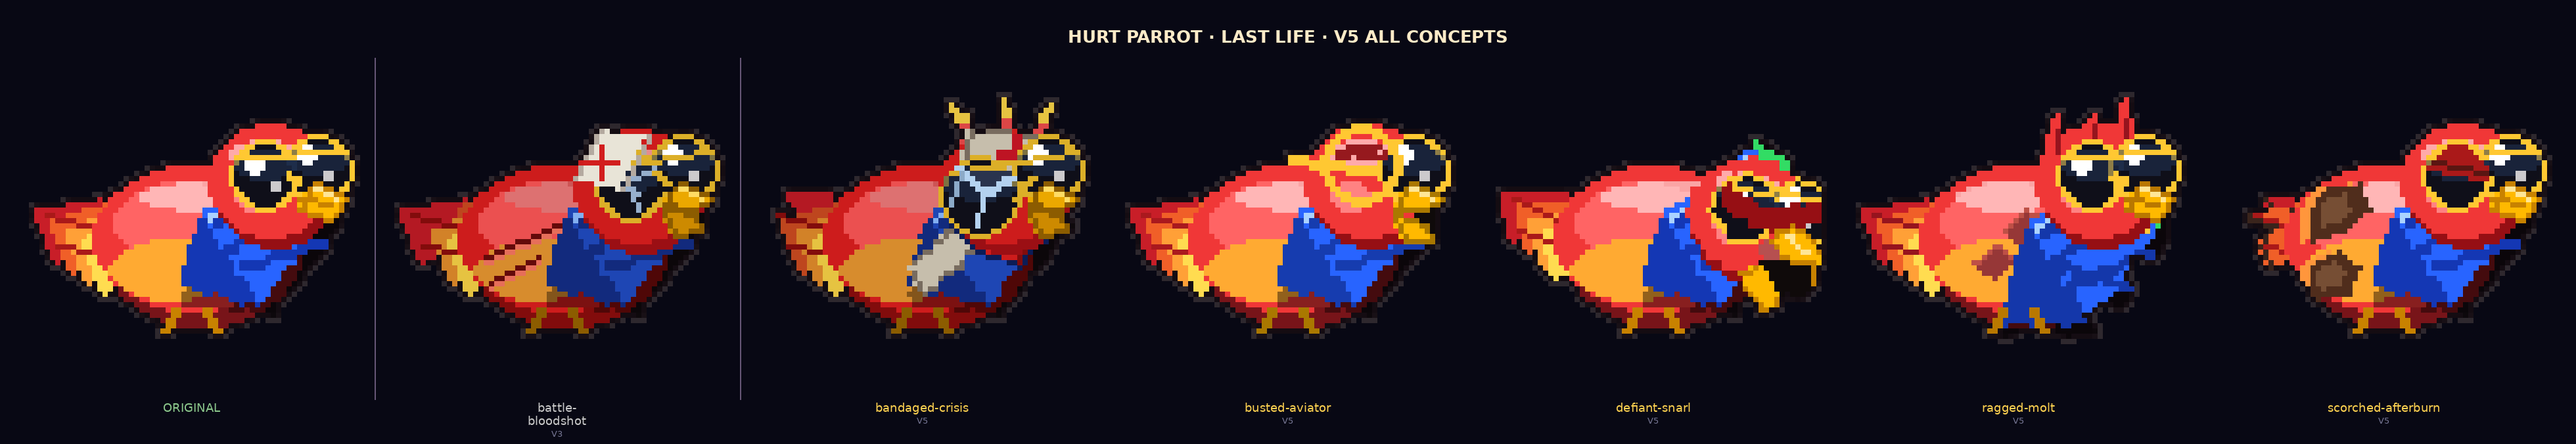
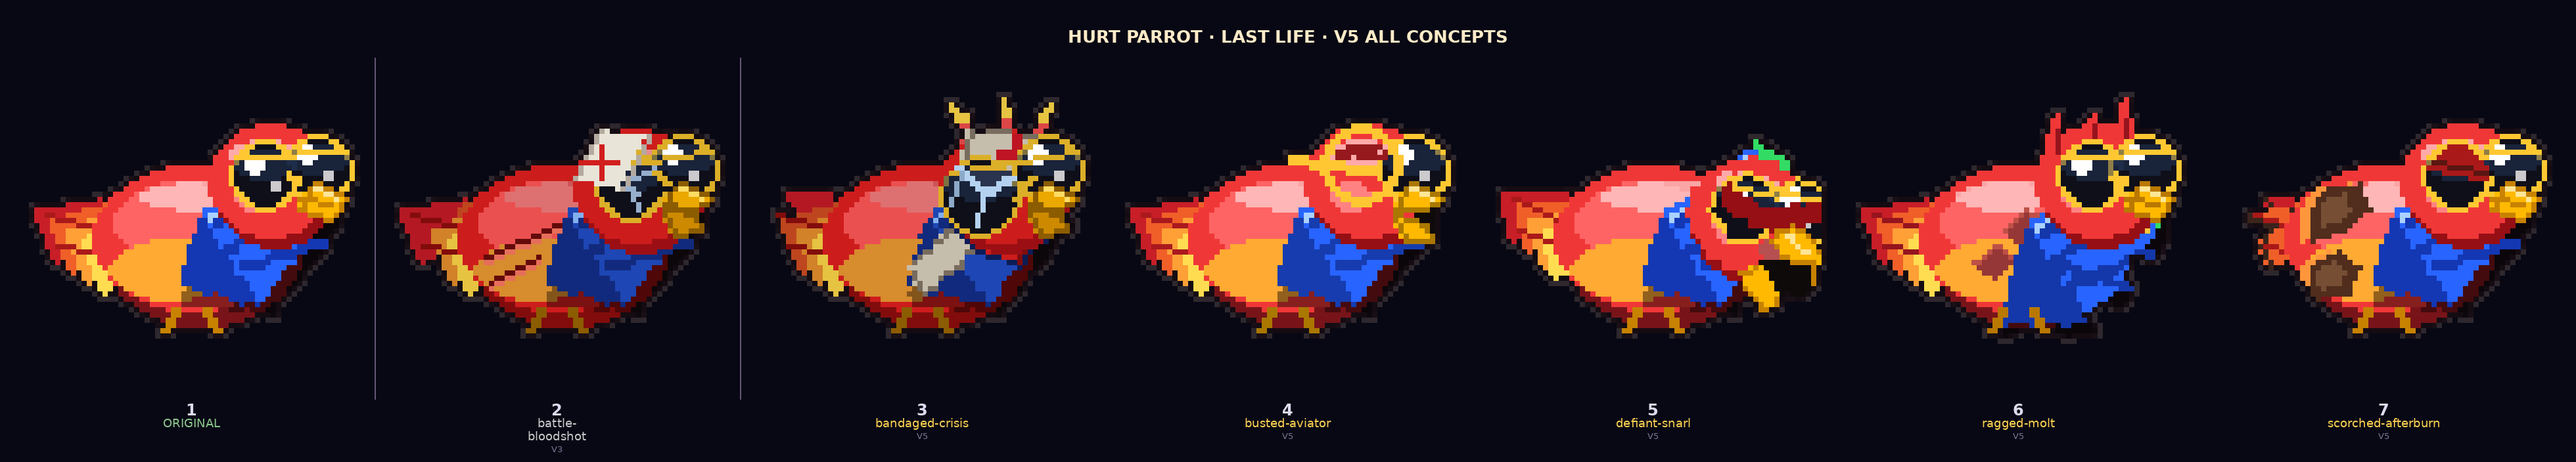
showcase: add numeric ID labels (1–7) below each panel sprite
Each panel now shows its 1-based index in bold below the sprite and
above the slug name, so concepts can be referenced by number.
FTR_H bumped 52→80 to accommodate the extra label row.

Claude-Session: https://claude.ai/code/session_01SYxW5bMXxMEcZRx1arfvCN

diff --git a/docs/build_v5_showcase.py b/docs/build_v5_showcase.py
@@ -32,7 +32,7 @@ PANEL_H   = SPRITE_H * SCALE   # 512
 GAP       = 12
 MARGIN    = 20
 HDR_H     = 60
-FTR_H     = 52
+FTR_H     = 80
 BG        = (8, 8, 20)
 
 N_PANELS  = 7
@@ -139,6 +139,7 @@ def main():
     draw   = ImageDraw.Draw(canvas)
 
     hdr_font  = _font(26, bold=True)
+    id_font   = _font(24, bold=True)
     slug_font = _font(18, bold=False)
     sub_font  = _font(13, bold=False)
 
@@ -177,8 +178,17 @@ def main():
             draw.line([(line_x, panel_top - 4), (line_x, panel_top + PANEL_H + 4)],
                       fill=(60, 40, 80, 200), width=2)
 
-        # Footer: slug name
-        slug_y = panel_top + PANEL_H + 6
+        # Footer: numeric ID just below the sprite
+        id_label = str(idx + 1)
+        id_bb    = draw.textbbox((0, 0), id_label, font=id_font)
+        id_w     = id_bb[2] - id_bb[0]
+        id_h     = id_bb[3] - id_bb[1]
+        id_y     = panel_top + PANEL_H + 6
+        draw.text((x0 + (PANEL_W - id_w) // 2, id_y),
+                  id_label, font=id_font, fill=(220, 220, 240, 255))
+
+        # Footer: slug name (shifted down past the ID)
+        slug_y = id_y + id_h + 6
         bbox2  = draw.textbbox((0, 0), label, font=slug_font)
         lw     = bbox2[2] - bbox2[0]
         lines  = label.split("\n")
